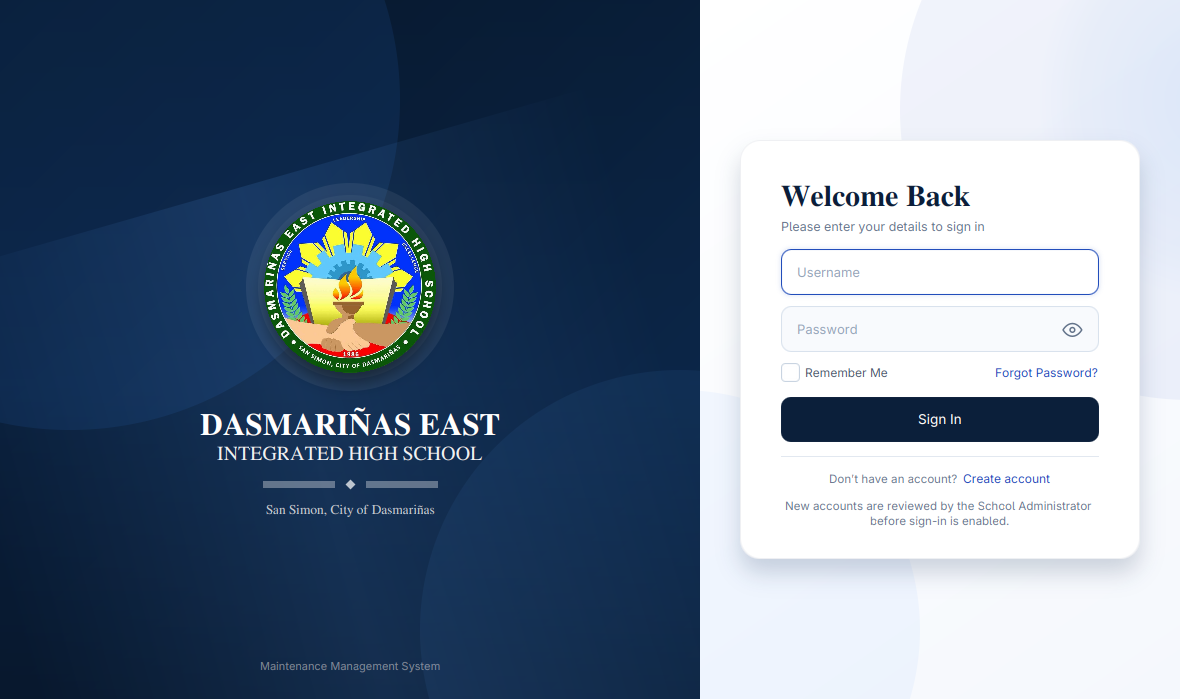
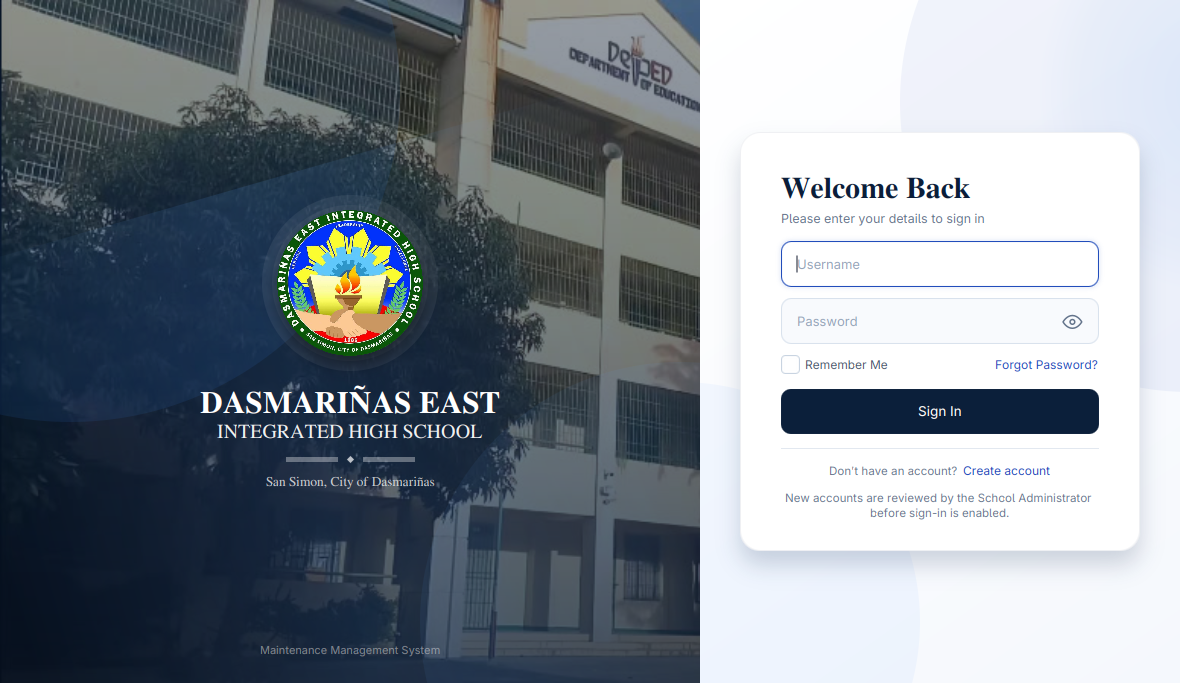
Use the campus photo on the login screen and refine branding
- Bundle login-building.jpg and load it synchronously via inline CSS
- Shrink the crest and its halo slightly
- Make the divider lines shorter and the diamond smaller/thinner

diff --git a/src/main/java/com/deihs/mms/controller/LoginController.java b/src/main/java/com/deihs/mms/controller/LoginController.java
@@ -29,12 +29,6 @@ import javafx.scene.control.Dialog;
 import javafx.scene.control.Label;
 import javafx.scene.control.PasswordField;
 import javafx.scene.control.TextField;
-import javafx.scene.image.Image;
-import javafx.scene.layout.Background;
-import javafx.scene.layout.BackgroundImage;
-import javafx.scene.layout.BackgroundPosition;
-import javafx.scene.layout.BackgroundRepeat;
-import javafx.scene.layout.BackgroundSize;
 import javafx.scene.layout.GridPane;
 import javafx.scene.layout.Region;
 import javafx.scene.layout.StackPane;
@@ -152,19 +146,12 @@ public class LoginController {
             buildingLayer.setManaged(false);
             return;
         }
-        Image image = new Image(photo.toExternalForm(), true);
-        if (image.isError()) {
-            buildingLayer.setVisible(false);
-            buildingLayer.setManaged(false);
-            return;
-        }
-        buildingLayer.setBackground(new Background(new BackgroundImage(
-                image,
-                BackgroundRepeat.NO_REPEAT,
-                BackgroundRepeat.NO_REPEAT,
-                BackgroundPosition.CENTER,
-                new BackgroundSize(BackgroundSize.AUTO, BackgroundSize.AUTO,
-                        false, false, false, true))));
+        // Inline style wins over the stylesheet, and loading is synchronous so
+        // the photo is present on the very first pulse (no blank flash).
+        buildingLayer.setStyle("-fx-background-image: url('" + photo.toExternalForm() + "');"
+                + "-fx-background-size: cover;"
+                + "-fx-background-position: center center;"
+                + "-fx-background-repeat: no-repeat;");
         buildingLayer.setVisible(true);
         buildingLayer.setManaged(true);
     }

diff --git a/README.md b/README.md
@@ -39,7 +39,7 @@ Roles are stored in the database and read after login — users never choose a r
 
 ![Sign-in screen](docs/login-screen.png)
 
-A split navy branding panel (school logo, name, location) beside a white sign-in card. The password field has an eye toggle, **Remember Me** stores only the username, **Forgot Password** explains the administrator reset process, and the Google button appears only when OAuth is configured. A real campus photo can be dropped in at `src/main/resources/com/deihs/mms/img/login-building.jpg`; otherwise the navy gradient is used.
+A split navy branding panel (school logo, name, location) beside a white sign-in card. The password field has an eye toggle, **Remember Me** stores only the username, **Forgot Password** explains the administrator reset process, and the Google button appears only when OAuth is configured. The bundled campus photo at `src/main/resources/com/deihs/mms/img/login-building.jpg` can be replaced with another image; if removed, the navy gradient is used.
 
 ---
 
@@ -107,7 +107,7 @@ deihs-mms/
 │   ├── db.properties                # blank template (no secrets)
 │   ├── com/deihs/mms/view/*.fxml    # 18 screens/dialogs
 │   ├── com/deihs/mms/css/styles.css # navy login + Green & Gold app shell
-│   └── com/deihs/mms/img/           # logo (optional login-building.jpg)
+│   └── com/deihs/mms/img/           # logo + login-building.jpg
 └── docs (HTML, at repo root)
     ├── DEIHS_MMS_Build_Guide.html
     ├── DEIHS_MMS_Group_Presentation.html
